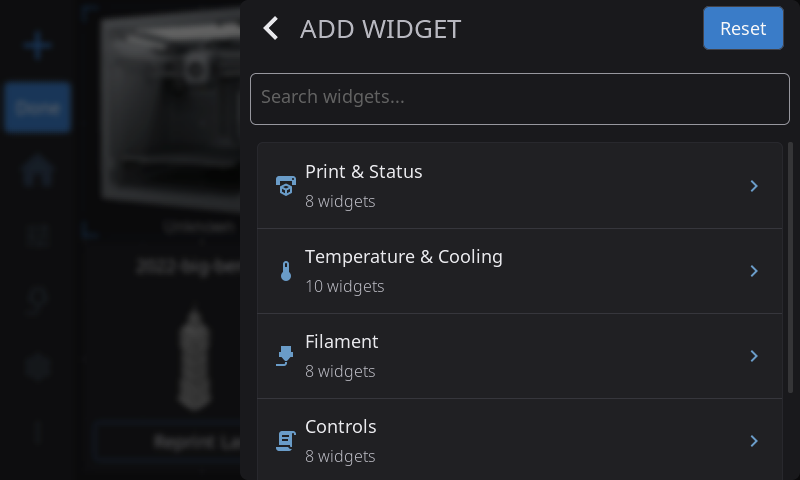
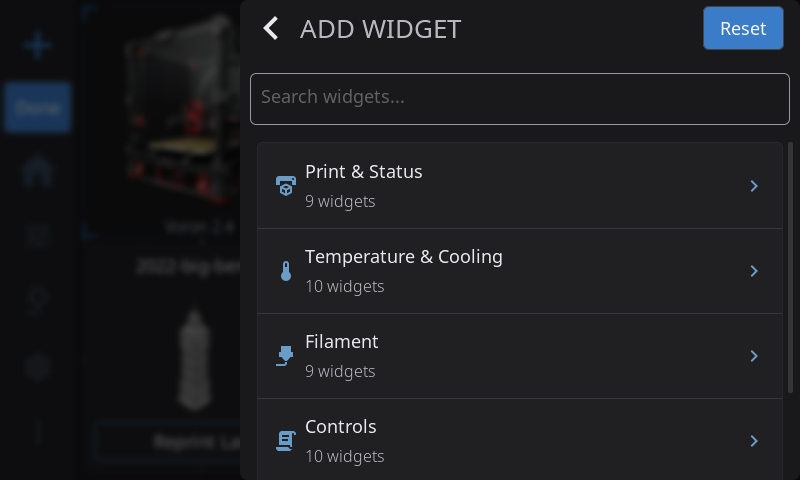
docs(home): describe the resolved default layouts and the bulb chip; recapture the home screenshots

diff --git a/docs/user/guide/home-panel.md b/docs/user/guide/home-panel.md
@@ -4,8 +4,6 @@
 
 The Home Panel is your printer dashboard — a fully customizable grid of widgets spread across multiple pages, like home screens on a phone. You choose what appears, where it goes, how big each widget is, and can rearrange everything with drag-and-drop.
 
-<!-- Screenshot: default home panel layout, idle printer -->
-
 ---
 
 ## The Widget Grid
@@ -21,7 +19,14 @@ Your dashboard is built from **widgets** — individual cards that display print
 
 Most widgets don't draw their own box. Instead, neighbouring widgets sit on one **shared card background** that flows around the whole group, so a cluster of small readouts reads as a single panel rather than a row of separate tiles. A few widgets bring their own surface and stay visually distinct — Print Status, Camera, Nozzle Temperatures and the AMS spool view — and Printer Image and Tips deliberately float on the bare background. Move a widget and the card reshapes itself around wherever it lands.
 
-When you first launch HelixScreen, a default layout is created with your printer image, print status, temperatures, and other commonly used widgets, arranged to suit your screen. From there, you can customize everything.
+When you first launch HelixScreen, a default layout is created with your printer image, print status, temperatures, and other commonly used widgets, arranged to suit your screen and what your printer can do. Every screen size gets one, from the small 320x240 panels up to large desktop windows. From there, you can customize everything.
+
+A few things about the default layout that are on purpose:
+
+- **Notifications always sit in a corner** of the screen, so the bell is in the same place on every printer.
+- **Only hardware you have is shown.** The chamber temperature tile, for instance, appears only on enclosed printers. If your printer has no chamber, or no filament box, that spot is left empty rather than filled with a tile that does nothing.
+- **Empty cells are intentional.** The default never pads a layout with filler tiles. A gap means the printer has nothing for that cell, and you can put any widget from the Widget Catalog there.
+- **Room to breathe.** The printer image has a margin around it, and from 1024x600 up the space between widgets is wider too.
 
 ### On ultrawide and portrait screens
 
@@ -35,7 +40,7 @@ same square cell, so an unusually shaped screen simply gets an unusually shaped 
 Ultrawide and portrait screens each start from **their own default layout**, not a stretched
 landscape one. **Tips** is part of the portrait layout, running full width above the print
 status card; it is left out only on the shortest portrait panels, where a band of rotating
-hints costs more of the screen than it earns. Any widget left out of a default layout is
+hints costs more of the screen than it earns. The ultrawide default is two bands: the printer image and the readouts on top, with Print Status and the temperature graph sharing the bottom. Any widget left out of a default layout is
 still in the Widget Catalog if you want it.
 
 Buttons, input fields, and headers are sized from the screen's *height* on portrait panels, so a tall screen gets taller, easier-to-hit controls rather than the cramped ones its narrow width would otherwise imply.
@@ -264,7 +269,7 @@ This is a full reset, so be sure before you confirm it:
 - Widget positions, sizes, and the set of enabled widgets all go back to defaults
 - **Per-widget settings go too** — display modes, the fan each Fan widget watches, the macro on each Macro Button. The layout is rebuilt from scratch, not adjusted
 
-The default layout is authored per screen shape rather than being one arrangement stretched to fit, so what you get depends on your panel. On a typical 800x480 landscape screen: **Printer Image** in the top-left, a block of small readouts (nozzle, bed, LED, notifications, fan, filament) to its right, the **Temperature Graph** down the right side, and **Print Status** as a wide band across the bottom. Bigger screens get the same shape with more room, and add **Tips** as a footer band. Portrait and ultrawide screens have their own layouts. Anything not placed by the default layout auto-fills the leftover cells.
+The default layout is made for your screen and your printer rather than being one arrangement stretched to fit, so what you get depends on both. On a typical 800x480 landscape screen: **Printer Image** in the top-left, a row of nozzle and bed temperatures, fans and **Notifications** (in the corner) to its right, your filament system or humidity readout below that, the **Temperature Graph** down the right side, and **Print Status** as a wide band across the bottom. Bigger screens get the same shape with more room, and add **Tips** as a footer band. Portrait and ultrawide screens have their own layouts, and so do the very small ones: the 320x240 panel on the Creality Hi drops the printer image to make room for a taller Print Status card. Widgets your printer has no hardware for are left out, and cells nothing fits are left empty. Anything the default layout does not place is still in the Widget Catalog.
 
 ### Exiting Edit Mode
 
@@ -283,7 +288,7 @@ These are the same 5 groups the Widget Catalog uses on the device.
 
 | Widget | Description | Default | Min | Max | Resizable | Hardware Required |
 |--------|-------------|---------|-----|-----|-----------|-------------------|
-| **Printer Image** | Your printer's photo, with live chips for the heaters, part fan and light while they are in use (see [Status Chips on the Printer Image](#status-chips-on-the-printer-image)). Tap a chip for that part's controls, or the picture itself to open the Printer Manager overlay where you can change the name, image, and see hardware info. | 2x2 | 1x1 | 4x3 | Yes | — |
+| **Printer Image** | Your printer's photo, with live chips for the heaters, part fan and light while they are in use (see [Status Chips on the Printer Image](#status-chips-on-the-printer-image)). Tap a chip for that part's controls (the light bulb switches the light), or the picture itself to open the Printer Manager overlay where you can change the name, image, and see hardware info. | 2x2 | 1x1 | 4x3 | Yes | — |
 | **Print Status** | Tracks the print job in all three of its states - idle (pick a file), preparing (pre-print steps with a progress bar), and printing (filename, percentage, ETA, elapsed time). Pauses scheduled in the G-code (M600, PAUSE and friends) show as ticks on the progress bar and arc, so you can see a filament change coming. Tap opens the full Print Status overlay whenever a job is preparing or printing, or the file browser when idle. | 2x2 | 2x1 | Full width x3 | Yes | — |
 | **Print Controls** | Pause, resume, and stop buttons for the running print, right on the dashboard. | 2x1 | 2x1 | 2x1 | No | — |
 | **Print Stats** | Print history statistics — total prints, success rate, and total print time. Tap to open the full print history overlay. | 2x2 | 2x1 | 3x2 | Yes | — |
@@ -1088,9 +1093,9 @@ While the printer is working, small chips on the printer image show what each pa
 
 - **Nozzle, bed and chamber** - a temperature chip appears while the heater has a target, and stays, greyed, until a heater you turned off has cooled below 50°C. The chamber chip appears only on printers with a chamber heater.
 - **Part fan** - shows its speed while it is running.
-- **Light** - shows while your chamber light is on.
+- **Light** - a small light bulb at the top of the picture, shown whenever your printer has a light HelixScreen can switch. It is lit while the light is on and dark while it is off.
 
-Tap a heater chip for its temperature graph, the fan chip for the fan controls, or the light chip for the chamber light's page in the LEDs overlay.
+Tap a heater chip for its temperature graph or the fan chip for the fan controls. **Tap the light bulb to switch the light on or off.** Press and hold it to open the light's page in the LEDs overlay instead.
 
 On the most common printers the shipped pictures know where each part is, so each chip points at its part: beside the picture with a line to it on a wide tile, or on top of it on a small one. On other pictures, including your own photos, the chips sit along the edge of the picture until you tag its parts.
 

diff --git a/docs/devel/architecture/09-home-widgets.md b/docs/devel/architecture/09-home-widgets.md
@@ -124,9 +124,9 @@ The built-in catalog (gate subjects from the def table; "-" means always availab
 | `camera` | `CameraWidget`, `HELIX_HAS_CAMERA` builds only | - |
 | `notifications` | `TileWidget` (sizing only) | - |
 
-That catalog, rendered: the stock grid a fresh mock instance builds from the [`assets/config/default_layout.json`](../../../assets/config/default_layout.json) anchors, with the print-library and status tiles at the top and everything else auto-placed below:
+That catalog, rendered: the stock grid a fresh mock instance resolves from the [`assets/config/default_layout.json`](../../../assets/config/default_layout.json) table at 800x480 (see [LAYOUT_SYSTEM.md](../LAYOUT_SYSTEM.md)):
 
-<img src="../../images/screenshot-home-panel.png" alt="Home panel grid: print library card and status card (nozzle temp, fan rows, LED strip, notifications) on a dark theme with a left nav bar" width="800"/>
+<img src="../../images/screenshot-home-panel.png" alt="Home panel grid: printer image with light bulb chip, nozzle and bed temperatures, fans, notifications corner, AMS spools, temperature graph and print status card on a dark theme with a left nav bar" width="800"/>
 
 ### populate_widgets(): from saved layout to attached grid
 
